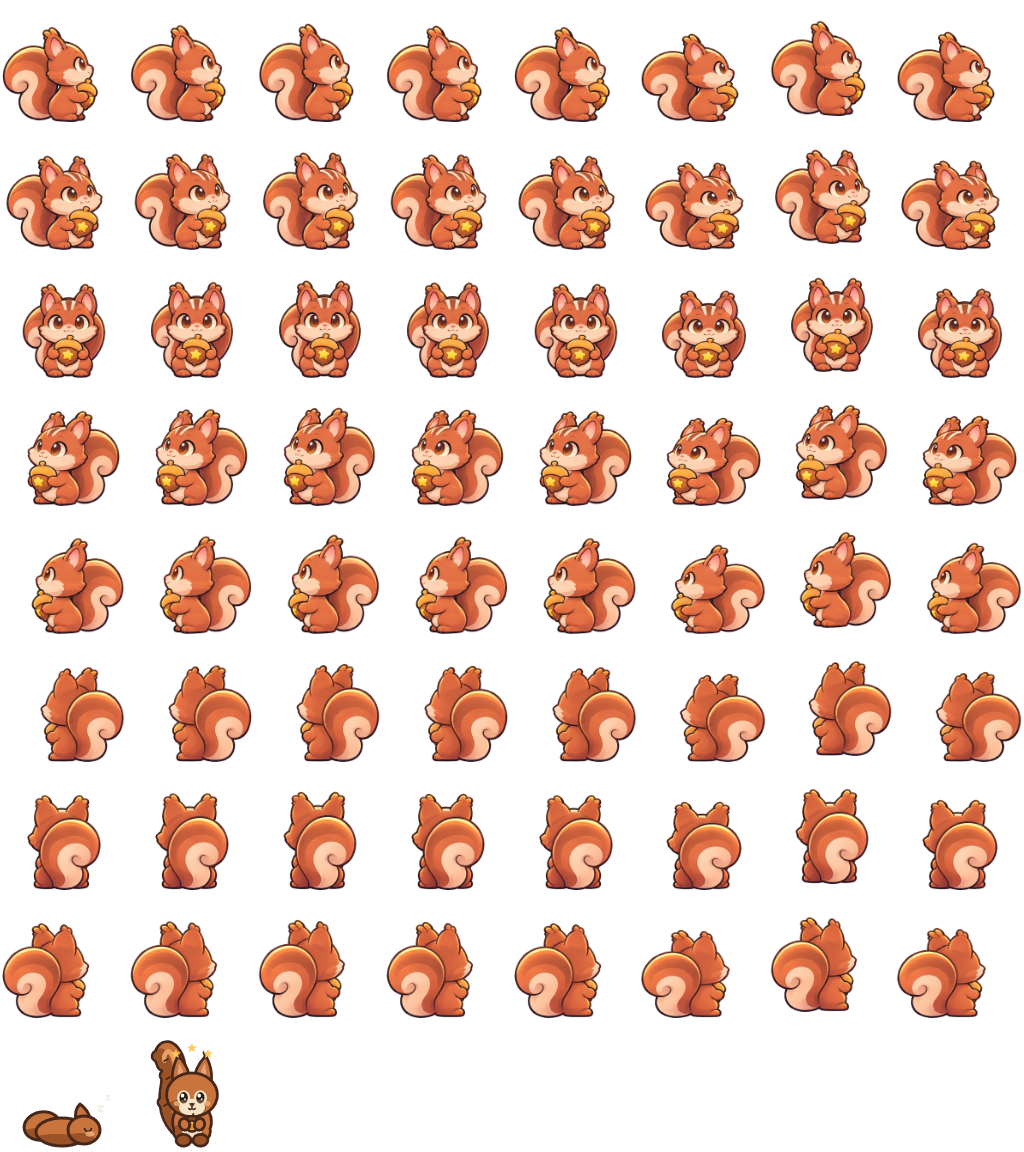
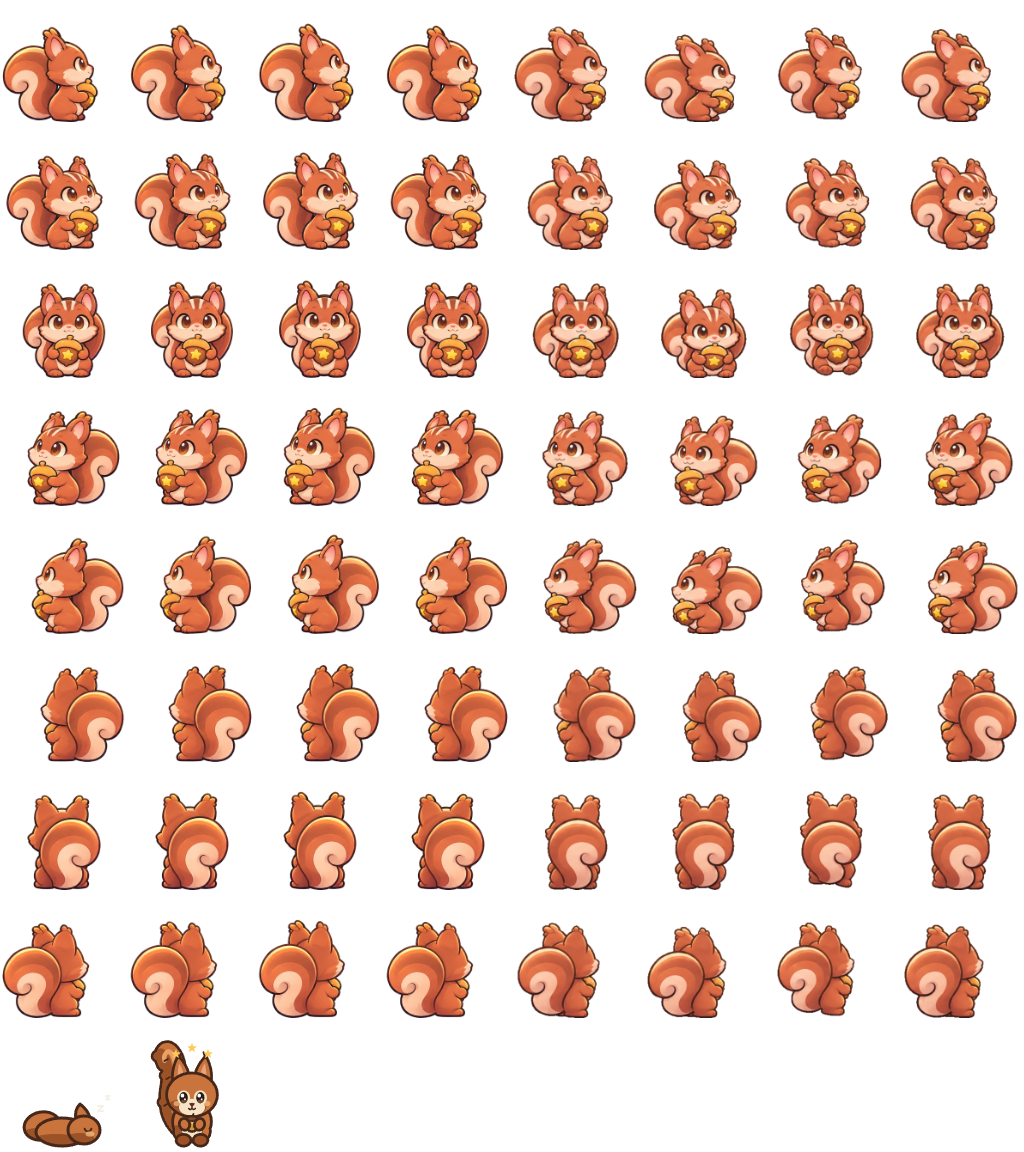
도토 걷기 8방향 적용(라이언: 받은 시트 두 장 바로 적용): 0·45·90·135·180°를 잘라 대기 범위 축척·대기 실루엣과 가장 많이 겹치는 자리·f03 뜸 12px, 225·270·315°는 뒤집기, f01 = 시트 첫 장(ChatGPT 권장과 달리 — 대기 그림으로 바꾸면 걷는 동안 꼬리·머리가 튐), 박자 6칸/초 — 점검 notes/README_claude.md
Claude-Session: https://claude.ai/code/session_01HrPbr5mJU6i3pPUacduwos

diff --git a/src/art/friendSheet.ts b/src/art/friendSheet.ts
@@ -68,14 +68,15 @@ export const FRIEND_PACKS: Partial<Record<KeeperSpriteId, FriendPack>> = {
   // 팩은 '꼬리까지 포함한 실루엣'을 가로 가운데에 맞춰 와서(README), 몸 기준점을 방향마다 정했다(그림 위에 선을 그어 확인,
   // 좌우 짝 45/315·90/270·135/225는 512 대칭). 그림 파일은 받은 그대로 — 옮기면 큰 꼬리가 캔버스 밖으로 잘린다.
   // 크기 95px(제안): 브리프 '몸은 셋 중 가장 작다'(루미 약 101px, 머리 폭 루미의 약 83%). 더 크면 128 칸에서 꼬리 끝이 잘린다.
-  // 걷기 팩이 오기 전까지 걷기는 대기 그림으로 만든 임시 깡충, 박자는 토리와 같다
+  // 걷기(2026-11-18): ChatGPT 시트 두 장(0·45·90·135·180°)을 Claude가 잘라 대기 범위에 맞추고 225·270·315°는 좌우 뒤집기
+  // (팩 notes/README_claude.md). 박자는 토리(6.5)보다 조금 느긋하게 6칸/초(제안 — 도토 성격 '느긋하고 꼼꼼')
   doto: {
     idle: (deg, name) => `${DOTO_DIR}/Doto_Idle_8D_Pack/doto_idle_${deg}_${name}.png`,
     walk: (deg, name, n) => `${DOTO_DIR}/Doto_Walk_8D_4Frames_Pack/${deg}_${name}/doto_walk_${deg}_${name}_f0${n}.png`,
     feetY: 496,
     bodyH: 442,
     heightPx: 95,
-    walkCycle: { order: [0, 0, 1, 2, 3, 3], frameRate: 5.5 },
+    walkCycle: { order: [0, 0, 1, 2, 3, 3], frameRate: 6 },
     // 90·135(270·225)는 몸 아래보다 10px 몸 쪽: 꼬리 끝이 128 칸 밖으로 나가지 않게(게임에서 2px)
     anchorX: { 0: 256, 45: 300, 90: 320, 135: 340, 180: 256, 225: 172, 270: 192, 315: 212 },
   },

diff --git a/CLAUDE.md b/CLAUDE.md
@@ -75,8 +75,8 @@
   - 루미: 주황 스카프(별)·초록 눈, **등불을 들지 않는다**. 정지·걷기 = ChatGPT 8방향 팩(`reference/Lumi_8_Direction_Pack/`, 256), 공격·피격·부활 = 동작 효과(`systems/keeperMotion.ts`).
   - **토리**: 접힌 귀 + 민트 리본(노란 별) = **토리 자신의 왼쪽 귀**(정면 = 보는 쪽 오른쪽, 뒷모습 = 왼쪽). **왼쪽 방향을 뒤집어 만들지 않는다.** 팩 512×512·발끝 496·귀 끝 48, 게임 키 = 귀 끝~발끝 115px(머리 폭 = 루미).
   - **도토**: 대기 팩 512(꼬리 포함 실루엣 가운데로 옴 → 방향별 몸 기준점 `anchorX`), 키 95px(셋 중 가장 작게), 뒤집기 허용.
-  - **친구 걷기** = 방향마다 4장, 첫 장 = 그 방향 대기 그림 그대로, 한 바퀴로 이어짐. 박자 f01 f01 · f02 · f03 · f04 f04(토리 6.5칸/초 = 끝까지 밀면 깡충 한 번 약 0.56초, 도토 5.5칸/초 약 0.68초). 그림 목표: 뜨는 높이 약 6px, 눈 높이 ±6px, 귀 끝 ±15px, 눈은 f01과 같게. **눈 색은 그림 생성으로 고치지 않는다**(다시 그릴 때마다 속눈썹이 바뀜) → 눈 픽셀만 f01 색으로 옮기는 `hand-offs/chatgpt-tori-eye-fix-26-1118-1600/tori_eye_fix.py`를 ChatGPT가 돌려 `RESULT: ALL OK`로.
-  - **받은 상태**(2026-11-18): 토리 대기 8 + 걷기 7방향(45°·90°·135°·180°·225°·270°·315°, 눈 색은 대기와 같게 고침 — 225°·270°·315°는 받은 시트를 Claude가 잘라 맞춤, f01 = 시트 첫 장), **0°만 임시 깡충**(눈 겹침으로 뺌 → 재의뢰). 90°·270° 머리 출렁임은 목표보다 큼. 점검 `Tori_Walk_8D_4Frames_Pack/notes/eyefix_left_sheet_claude_check.md`. 도토 대기 8, 걷기 없음. 친구 시트 = `src/art/friendSheet.ts`(`FRIEND_PACKS`), 팩 = `reference/<Tori|Doto>_8_Direction_Pack/`, 점검 기록은 각 팩의 `README_claude.md`·`notes/`.
+  - **친구 걷기** = 방향마다 4장, 첫 장 = 그 방향 대기 그림 그대로, 한 바퀴로 이어짐. 박자 f01 f01 · f02 · f03 · f04 f04(토리 6.5칸/초 = 끝까지 밀면 깡충 한 번 약 0.56초, 도토 6칸/초 약 0.6초). 그림 목표: 뜨는 높이 약 6px, 눈 높이 ±6px, 귀 끝 ±15px, 눈은 f01과 같게. **눈 색은 그림 생성으로 고치지 않는다**(다시 그릴 때마다 속눈썹이 바뀜) → 눈 픽셀만 f01 색으로 옮기는 `hand-offs/chatgpt-tori-eye-fix-26-1118-1600/tori_eye_fix.py`를 ChatGPT가 돌려 `RESULT: ALL OK`로.
+  - **받은 상태**(2026-11-18): 토리 대기 8 + 걷기 7방향(45°·90°·135°·180°·225°·270°·315°, 눈 색은 대기와 같게 고침 — 225°·270°·315°는 받은 시트를 Claude가 잘라 맞춤, f01 = 시트 첫 장), **0°만 임시 깡충**(눈 겹침으로 뺌 → 재의뢰). 90°·270° 머리 출렁임은 목표보다 큼. 점검 `Tori_Walk_8D_4Frames_Pack/notes/eyefix_left_sheet_claude_check.md`. 도토 대기 8 + 걷기 8방향(받은 시트 두 장을 Claude가 잘라 맞춤, 225·270·315°는 뒤집기, f01 = 시트 첫 장 — `Doto_Walk_8D_4Frames_Pack/notes/README_claude.md`). 친구 시트 = `src/art/friendSheet.ts`(`FRIEND_PACKS`), 팩 = `reference/<Tori|Doto>_8_Direction_Pack/`, 점검 기록은 각 팩의 `README_claude.md`·`notes/`.
 - **적**: 호스틸 박쥐 `bat`·웨어울프 `werewolf`·뱀파이어 `vampire` / 잃어버린 주민 개구리 `frog`·고슴도치 `hedgehog`·레서판다 `redpanda` / 패시브 올빼미 `owl`·나방 `moth`·반딧불이 `firefly` / 빛을 잃은 친구 `tori-lost`·`doto-lost` / 보스 노월 `witch`. 빛을 잃은 모습 = 보랏빛 눈의 검은 털뭉치.
 - **아이템**(`items.json`): 바람 깃털 `wind_feather` · 별 목걸이 `star_necklace` · 반딧불 병 `firefly_jar` · 황금 도토리 `golden_acorn` · 빛의 부적 `light_charm`.
 - 빠진 것: 바루·몽이 등 옛 캐릭터, 장착물, 시너지·대광원, 손에 든 등불, 여우·삵.

diff --git a/docs/skill/light-defense-game/references/visual-audio.md b/docs/skill/light-defense-game/references/visual-audio.md
@@ -3,7 +3,7 @@
 > **2026-11-12 새 기획 개정 요약 (아래 본문보다 우선)**
 > - 루미는 **등불을 들지 않는다**(스스로 빛을 쏨). 빛 고임은 루미 주변(LP 비례)·중앙 광원(광도 비례)·켜진 등불 세 가지이고, 맵 전체 광도(`systems/villageMood.ts MapLight`)가 켜진 마을 드러남과 어둠 덮개를 정한다(옛 '마을 분위기' 절을 대체).
 > - **HUD**: 위 한 줄은 그대로(달·밤 mm:ss·진행 바에 한밤중·클라이맥스 눈금·점수·콤보). 아래 = 하트 3개 + HP 막대 · 빛(LP) 막대 · 중앙 광원 광도 막대 · 켠 등불 수 · 일시정지. 불꽃 5개·시너지 게이지·장착물 칸은 없앴다. 꺼진 등불·위험한 광원·빛을 잃은 친구는 노란 화살표(화면 밖이면 가장자리, 화면 안이면 그 위, 2026-11-13). HP·LP 막대 앞에 'HP'·'LP' 글자(LP는 별 아이콘 자리, 2026-11-13). 판이 끝나면(아침·튜토리얼 끝) 등불지기는 정면 정지 자세, 일시정지 중엔 애니메이션도 멈춤.
-> - 새 임시 코드 그림: 중앙 광원 토템 `central-source`(밝음·약함·꺼짐), 개구리 `frog-dark`·`frog-true`, 등불 스테이션 = `lantern` 시트를 바닥에(+ 광도 게이지). 도토 초상은 다람쥐(붉은 갈색, 복슬한 꼬리). **도토도 2026-11-18부터 ChatGPT 대기 팩**(몸 기준점 표 anchorX, 키 95px, 걷기는 임시 깡충). **토리는 2026-11-18부터 ChatGPT 그림**(정지 8방향·초상·받은 방향의 걷기 — `src/art/friendSheet.ts`, 팩은 `reference/Tori_8_Direction_Pack/`, 아직 없는 걷기 방향은 대기 그림으로 만든 임시 깡충, 게임 속 키 귀 끝~발끝 115px = 머리 폭이 루미와 같음).
+> - 새 임시 코드 그림: 중앙 광원 토템 `central-source`(밝음·약함·꺼짐), 개구리 `frog-dark`·`frog-true`, 등불 스테이션 = `lantern` 시트를 바닥에(+ 광도 게이지). 도토 초상은 다람쥐(붉은 갈색, 복슬한 꼬리). **도토도 2026-11-18부터 ChatGPT 대기 팩**(몸 기준점 표 anchorX, 키 95px, 걷기 8방향도 2026-11-18 ChatGPT 시트를 잘라 넣음 — 225·270·315°는 뒤집기). **토리는 2026-11-18부터 ChatGPT 그림**(정지 8방향·초상·받은 방향의 걷기 — `src/art/friendSheet.ts`, 팩은 `reference/Tori_8_Direction_Pack/`, 아직 없는 걷기 방향은 대기 그림으로 만든 임시 깡충, 게임 속 키 귀 끝~발끝 115px = 머리 폭이 루미와 같음).
 > - 적의 퇴장: 잃어버린 주민 = 제 모습(fx-return)으로 광원 쪽 귀환, 호스틸 = 빛 반대쪽으로 날아가 사라짐. 패시브는 위협적이지 않게, 빛을 피하는 몸짓.
 > - 사운드(새 기획): BGM 홈·플레잉·상점·튜토리얼, 효과음 조준(끌기)·발사·아이템·클리어·게임 오버·적 다운, 진동. 레퍼런스에 Stray·OneShot(분위기·색감), Cult of the Lamb(2.5D·지면 재질) 추가. 새 기획은 색 미정 → 기존 10색 팔레트 유지.
 > - 2026-11-13 보강: 모든 생명이 루미처럼 움직임 — 토리·도토 8방향 × 정지·걷기 4칸, 걷는 적·주민 옆·앞·뒤 × 걸음 4칸(`systems/critterView.ts`로 방향 고름), 나는 종 날갯짓 4칸, 노월 대기·시전·진정. 중앙 광원 = 세 단 돌 제단 + 금 간 큰 결정(176×236). 배경음 = D장조의 은은한 곡(OneShot 분위기 참고, 오르골 선율은 새로 지음, Dmaj9 → A/C# → Bm7 → F#m7 → Gmaj7 → D/F# → Em7 → A7). 장애물(오두막·담·기둥·광원 등) 뒤에 등불지기가 있으면 그 물체가 반투명(`entities/Occluders.ts`). HUD 막대 이름은 HP·LP만(광원 막대는 결정 아이콘 그대로 — 라이언 2026-11-13), 노란 화살표.

diff --git a/reference/Doto_8_Direction_Pack/Doto_Walk_8D_4Frames_Pack/notes/README_claude.md b/reference/Doto_8_Direction_Pack/Doto_Walk_8D_4Frames_Pack/notes/README_claude.md
@@ -1,0 +1,36 @@
+# 도토 걷기 8방향 — Claude 점검·적용 기록 (2026-11-18 16:50)
+
+## 받은 것
+- ChatGPT 시트 두 장 → `sources/`.
+  - A = 0°·45°·90°, B = 135°·180°.
+  - 바탕은 투명이고, 둘레에 반투명 빛무리가 있다.
+  - 원본은 station `chatgpt-doto-walk-26-1118-1626/received/`에 있다.
+- 의뢰서: `hand-offs/chatgpt-doto-walk-26-1118-1626/`.
+- ChatGPT 메모: f01이 대기 그림과 바이트가 같지 않고, 움직임을 검증하지 않았으며, 512 분리를 하지 않았다. "f01을 대기 그림으로 교체 권장"이라고 했다.
+
+## 다듬은 것 (Claude)
+- 장마다 캐릭터(알파 ≥ 230 덩이 + 그 안의 구멍)만 남겼다. 빛무리는 뺐다.
+- 축척은 줄마다 하나다. 시트 f01의 위~발끝을 대기 그림 범위(54~495)에 맞췄다. 배율은 ×2.17~2.39.
+- 가로 자리: 시트가 고른 칸이 아니어서 장마다 칸 안 위치가 달랐다. 그래서 대기 그림 실루엣과 가장 많이 겹치는 자리(IoU)에 놓았다. 제자리 깡충이다.
+- f02·f04는 발끝 495에 맞췄다. f03 뜸은 시트에서 23~48 px(512 기준)였는데 12 px로 줄였다.
+  - 의뢰서의 목표는 6이었다.
+  - 그래도 12로 한 이유: 토리 남쪽 깡충이 안 보인다는 라이언 지적이 있었다. 앞모습은 위아래만 읽히니 조금 크게 했다(제안).
+- 225°·270°·315°는 135°·90°·45°를 좌우로 뒤집었다(도토는 뒤집기 허용). 그다음 그 방향 대기 그림과 가장 많이 겹치게 4장을 함께 옮겼다(+5 · −5 · +15 px).
+
+## f01 판단: 시트 첫 장을 그대로 쓴다 (ChatGPT 권장과 다름)
+
+대기 그림과 시트 f01이 겹치는 정도(IoU)는 다음과 같다.
+
+| 0° | 45° | 90° | 135° | 180° | 225° | 270° | 315° |
+|---|---|---|---|---|---|---|---|
+| 0.94 | 0.86 | 0.91 | 0.92 | 0.86 | 0.94 | 0.92 | 0.86 |
+
+- 시트의 도토는 대기 그림보다 머리가 조금 크고 꼬리가 작다. 180°에서는 꼬리 폭이 약 15% 좁다.
+- f01만 대기 그림으로 바꾸면 걷는 동안 0.6초마다 꼬리·머리 크기가 튄다. 그래서 한 바퀴 안의 이어짐을 택했다.
+- 대신 출발·멈춤 때 한 번 모습이 바뀐다.
+- 토리 225°·270°·315°와 같은 판단이다.
+
+## 확인
+- 얼굴 확대: 눈 겹침 없음, 갈색 눈 한 쌍. 도토리를 계속 두 손에 쥐고 있다.
+- 게임 시트(128 칸): 꼬리·귀가 칸 가장자리에 닿는 곳 없음(8줄 × 8칸 검사).
+- 박자: 6칸/초. 토리 6.5보다 조금 느긋하다(제안).

diff --git a/docs/DECISION_LOG.md b/docs/DECISION_LOG.md
@@ -128,3 +128,4 @@
 - 2026-11-18 · 도토 걷기 8방향 의뢰서(라이언: 한 번에 실행) `hand-offs/chatgpt-doto-walk-26-1118-1626/`: 5방향(0·45·90·135·180°)만 그리고 225·270·315°는 Claude가 뒤집기(도토는 뒤집기 허용), 그림 두 장(투명·이름표 없음)은 늘 받고 자른 팩은 되면 받기, 토리 때 문제(옛 대기 그림·눈 바뀜·눈 겹침·크게 뛰기·이름표 시트)를 미리 막음. 작은 깡충: 발 6px·머리 ±6·꼬리 한 박자 늦게·도토리 계속 쥠.
 - 2026-11-18 · 반자동 공격(라이언: 적이 근처에 있을 때 우측 스틱을 누르면 자동으로 그 적에게): 빛 스틱을 누른 채 끌지 않고 있으면 0.12초(제안, `controls.autoHoldDelaySec`) 뒤부터 빛이 준비될 때마다 사거리 안 가장 가까운 적에게 연사, 조준선이 그 적을 가리킴. 끌기 시작하면 멈추고 예전처럼 겨눔, 누르는 동안 쐈으면 놓을 때 탭 발사 없음. PC = 스페이스 누르고 있기. 겨누기 입력은 `scenes/play/Aiming.ts`로 떼어 냄(PlayScene 600줄 아래).
 - 2026-11-18 · 토리 깡충 박자 조금 빠르게(라이언: 약간 느림): 5.5 → 6.5칸/초(끝까지 밀면 한 번 약 0.56초, 제안), 도토는 5.5 그대로. 남쪽(앞모습) 깡충이 잘 안 보임(라이언) → 앞모습은 아직 대기 그림 임시 깡충(받은 0°는 눈 겹침으로 뺌)이라 머리 위아래가 게임에서 약 4px뿐이었음 → 웅크림 sy 0.93·뜸 6px로 키워 약 7px(토리 귀가 칸 위로 안 잘리는 한도). 진짜 해결은 0° 앞모습 걷기 그림(ChatGPT, 눈 한 번만 + tori_eye_fix.py).
+- 2026-11-18 · 도토 걷기 8방향 적용(라이언: 시트 두 장 바로 적용, ChatGPT 의견은 판단해서): 시트(0·45·90·135·180°)를 잘라 대기 범위 축척·대기 실루엣과 가장 많이 겹치는 자리·f03 뜸 12px(목표 6보다 크게 — 남쪽 깡충이 안 보인다는 지적 반영, 제안)·225·270·315°는 뒤집기. ChatGPT는 f01을 대기 그림으로 바꾸라 했지만 시트 도토가 머리 크고 꼬리 작아 걷는 동안 튀므로 시트 첫 장을 씀(출발·멈춤 때 한 번 바뀜). 박자 6칸/초(토리 6.5보다 느긋, 제안). 칸 가장자리 잘림 없음, 눈 겹침 없음.

diff --git a/reference/Doto_8_Direction_Pack/Doto_Idle_8D_Pack/README_claude.md b/reference/Doto_8_Direction_Pack/Doto_Idle_8D_Pack/README_claude.md
@@ -20,5 +20,5 @@
   90°·135°(270°·225°)는 몸 아래보다 10px 몸 쪽이다. 꼬리 끝이 128 칸 밖으로 나가지 않게 했다(게임에서 2px 차이).
 - **크기**: 귀 끝 털~발끝 95px(제안). 루미는 약 101px다. 브리프 '몸은 셋 중 가장 작다'를 따랐다. 더 크면 128 칸에서 꼬리 끝이 잘린다.
 - **초상**: 대기 45°(`art-src/characters/portrait-doto.png`).
-- **걷기**: 걷기 팩이 오기 전까지 대기 그림으로 만든 임시 깡충이다. 박자는 토리와 같다(앉음 2칸·박차기 1·공중 1·착지 2칸).
+- **걷기**: 2026-11-18 걷기 8방향이 들어왔다 → `../Doto_Walk_8D_4Frames_Pack/notes/README_claude.md`. 박자는 앉음 2칸·박차기 1·공중 1·착지 2칸, 6칸/초.
 - 빛을 잃은 모습·잠듦·기절은 아직 임시 코드 그림이다.
